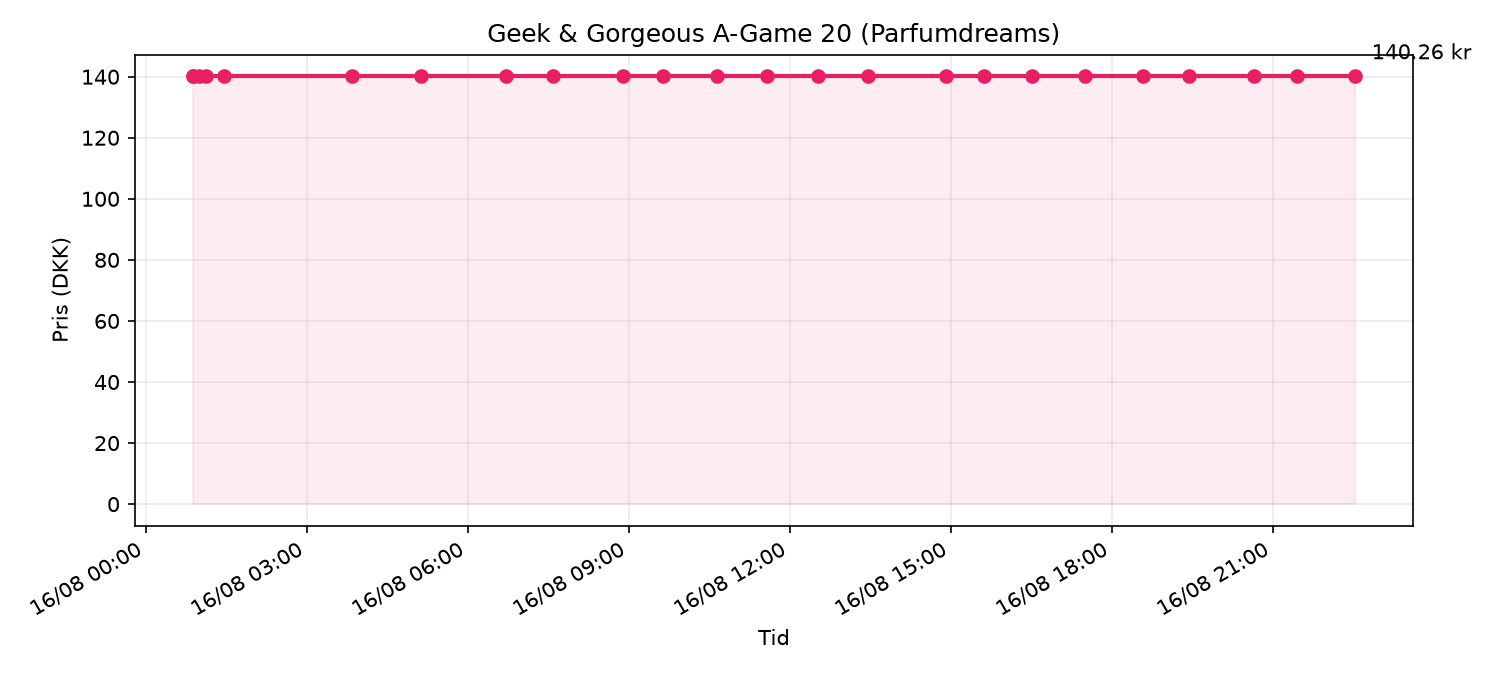
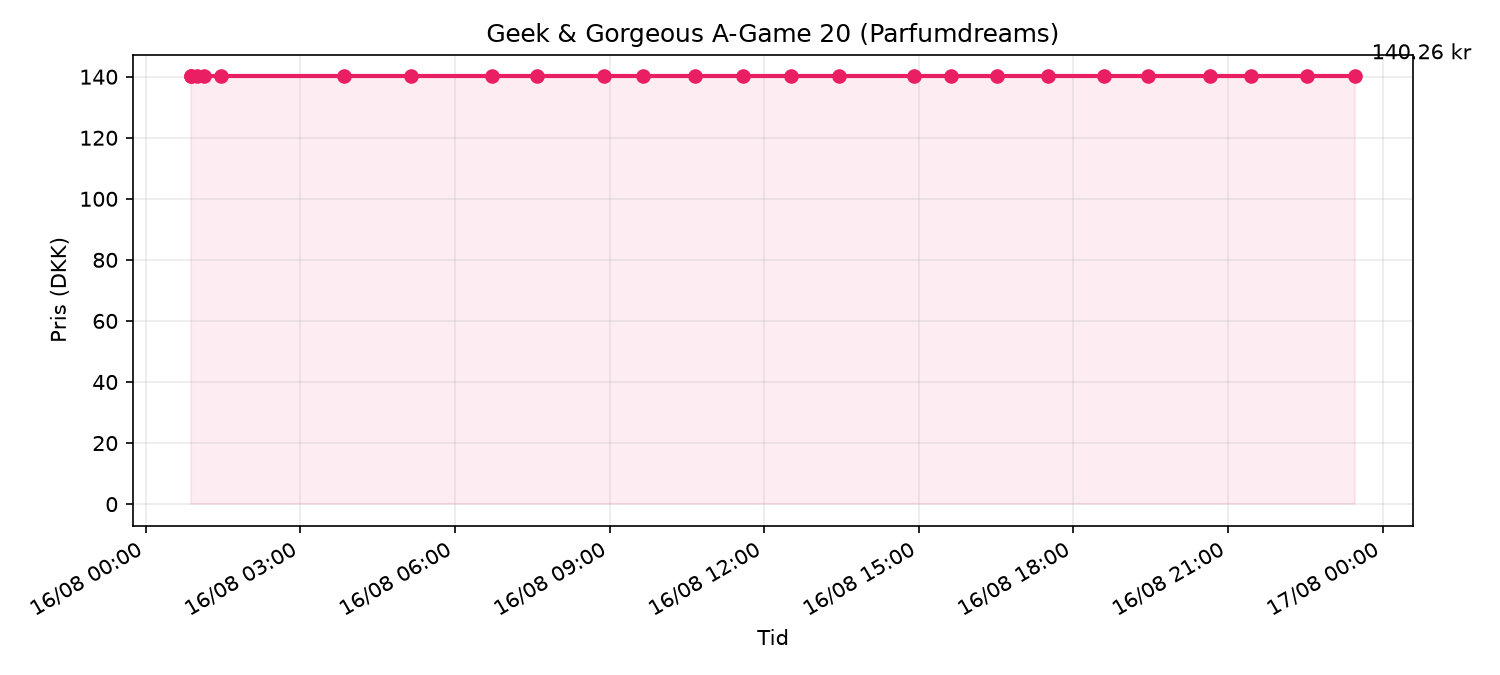
price check 2026-08-16T21:27Z

diff --git a/data/price_chart.html b/data/price_chart.html
@@ -13,7 +13,7 @@
 </head>
 <body>
   <h1>Geek & Gorgeous A-Game 20 (Parfumdreams)</h1>
-  <p class="meta">Senest tjekket: 16/08/2026 22:32 · Pris: <strong>140.26 kr</strong> · på lager</p>
+  <p class="meta">Senest tjekket: 16/08/2026 23:27 · Pris: <strong>140.26 kr</strong> · på lager</p>
   
   <p><a href="https://www.parfumdreams.dk/Geek-Gorgeous/Samlinger/101-aktive-stoffer/A-Game-20-Serum/index_137083.aspx?variation=221879">Åbn produkt på Parfumdreams</a></p>
   <img src="price_chart.png" alt="Prisgraf">
